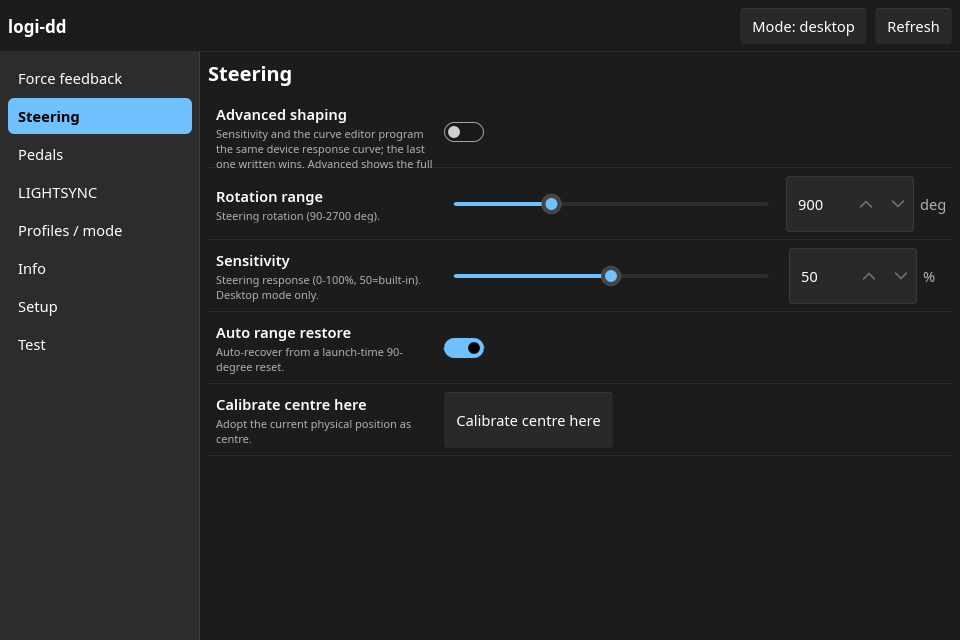
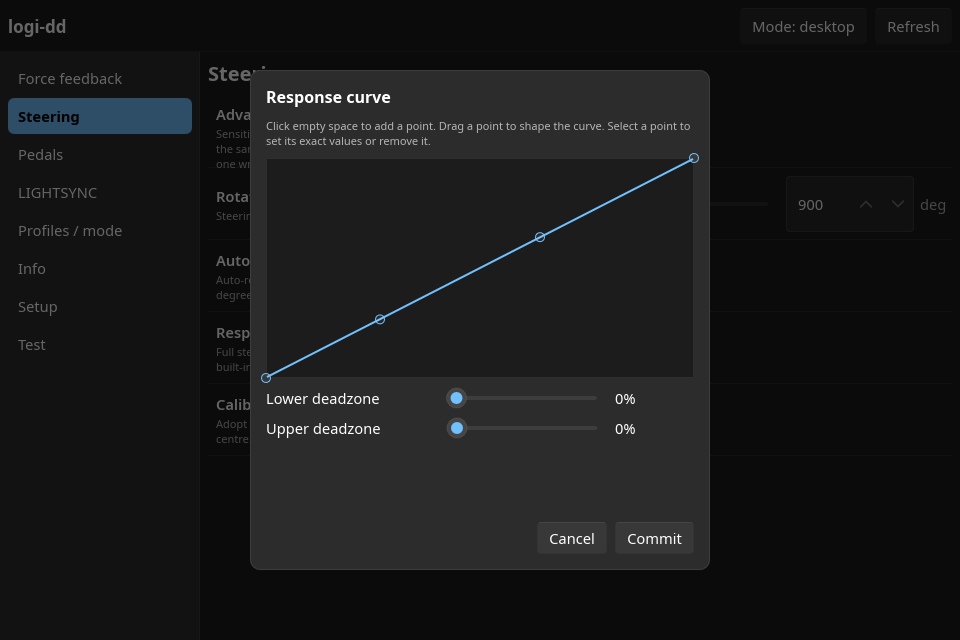
docs: recapture the curve editor screenshot with the editor open

diff --git a/README.md b/README.md
@@ -112,7 +112,7 @@ rotation range, force-feedback strength and filters, TrueForce level, LIGHTSYNC
 LEDs, profiles, and per-pedal / steering response curves through a G HUB-style
 curve editor.
 
-![logi-dd-gui Steering page](docs/images/logi-dd-curve-editor.png)
+![logi-dd-gui curve editor](docs/images/logi-dd-curve-editor.png)
 
 ```bash
 cd userspace/logi-dd && cargo build --release